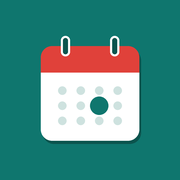
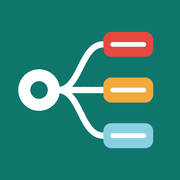
Eigenes Symbol: Mindmap statt Kalender

diff --git a/sw.js b/sw.js
@@ -4,7 +4,7 @@
  *  - zeigt Push-Benachrichtigungen an und öffnet beim Antippen den passenden Tag
  */
 'use strict';
-const CACHE = 'dicatodo-v1';
+const CACHE = 'dicatodo-v2';
 const SHELL = ['./', 'index.html', '../recurrence.js', 'manifest.webmanifest', 'icons/icon-192.png', 'icons/apple-touch-icon.png'];
 
 self.addEventListener('install', e => {
